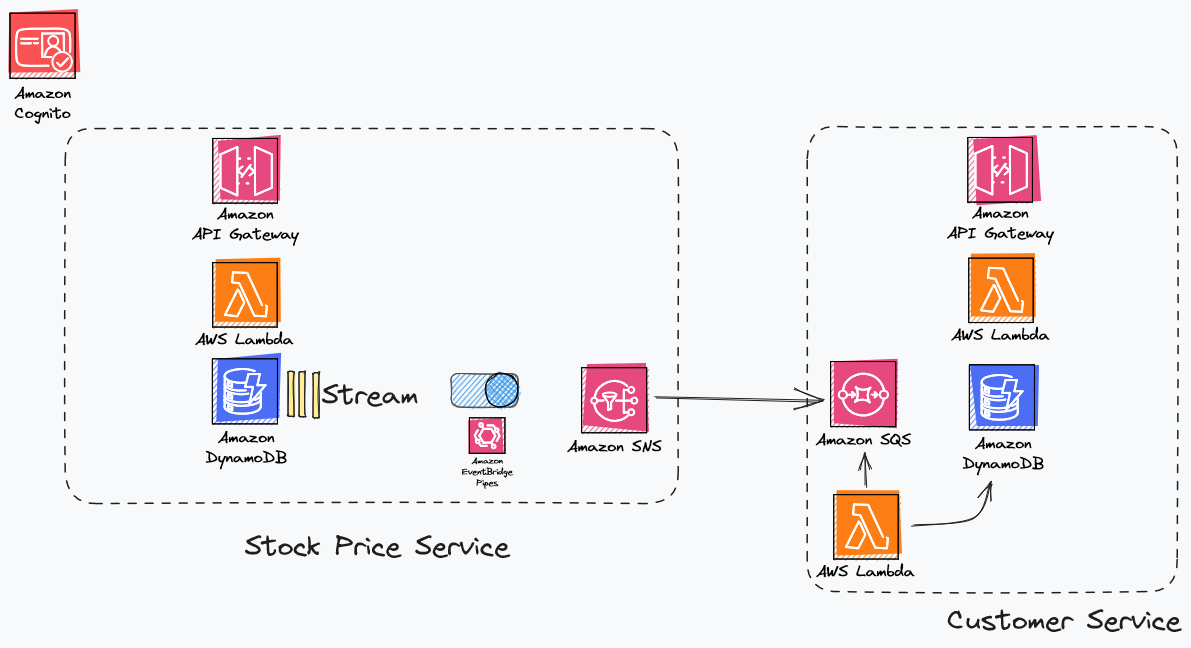
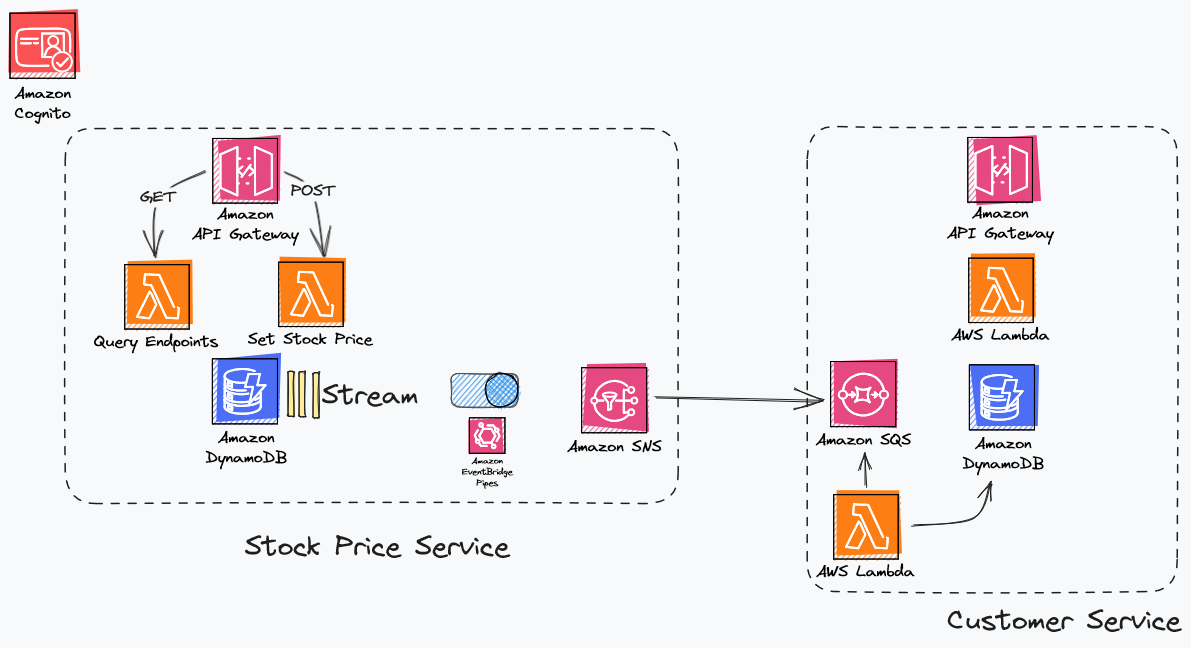
Update documentation

Changed region(s): [[0.0621, 0.3395, 0.3107, 0.5556], [0.2485, 0.2778, 0.2796, 0.3086], [0.1243, 0.2778, 0.1553, 0.3086]]

diff --git a/cdk/src/StockPriceService/StockPriceTestInfrastructureStack.cs b/cdk/src/StockPriceService/StockPriceTestInfrastructureStack.cs
@@ -22,6 +22,11 @@ public class StockPriceTestInfrastructureStack : Stack
         var topicArn =
             StringParameter.ValueForStringParameter(this, $"/stocks/{stackProps.Postfix}/stock-price-updated-channel");
 
+        if (string.IsNullOrEmpty(topicArn))
+        {
+            return;
+        }
+
         var topic = Topic.FromTopicArn(this, "StockPriceUpdatedTopic", topicArn);
         
         new AsyncTestInfrastructure(this, $"StockPriceTest{stackProps.Postfix}", topic);

diff --git a/cdk/src/SharedConstructs/AsyncTestInfrastructure.cs b/cdk/src/SharedConstructs/AsyncTestInfrastructure.cs
@@ -43,7 +43,8 @@ public class AsyncTestInfrastructure : Construct
                 }
             },
             Resources = new[] { queueSubscription.QueueArn },
-            Principals = new[] { new ServicePrincipal("sns.amazonaws.com") }
+            Principals = new[] { new ServicePrincipal("sns.amazonaws.com") },
+            Actions = new[] {"sqs:SendMessage"}
         }));
 
         source.AddSubscription(new SqsSubscription(queueSubscription));

diff --git a/README.md b/README.md
@@ -19,11 +19,12 @@ There are many examples of 'hello world' Lambda functions, but few that dive int
 
 This project aims to reduce cognitive load and answer these questions for you by providing a skeleton .NET Serverless service template that implements best practices for AWS Lambda, Serverless CI/CD, and the AWS CDK in one template project.
 
-### Serverless Service - The Stock Price service
+### Application Architecture
 
 ![](./assets/Architecture.png)
 
 - A stock price service that allows users to update the stock price for a given stock, and retrieve the current stock price as well as the history
+    - The Stock Price service splits queries and commands into seperate functions. All GET endpoints are serviced by a single Lambda function that uses native AOT compilation for performance. Commands run as single purpose Lambda functions
 - A customer service that allows users to subscribe to notifications when a given stock price changes 
 
 <br></br>
@@ -31,6 +32,7 @@ This project aims to reduce cognitive load and answer these questions for you by
 ### **Features**
 
 - .NET Serverless service with a recommended file structure, following the hexagonal architecture pattern
+- Demonstrates native ahead of time (AoT) compilation and the right places to introduce it
 - Asynchronous integration between multiple bounded contexts
 - CDK infrastructure with unit, integration and functional tests.
 - CI/CD pipelines based on Github actions that deploys to AWS.
